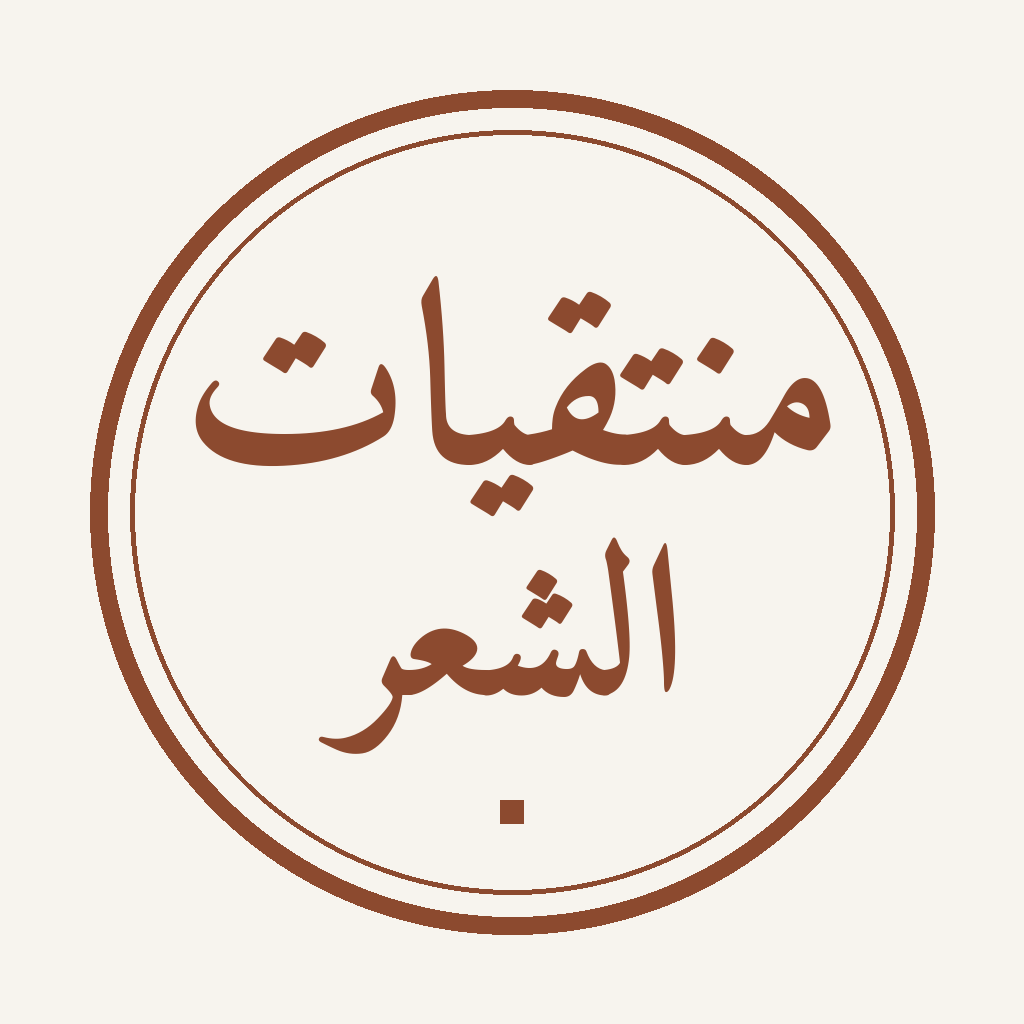
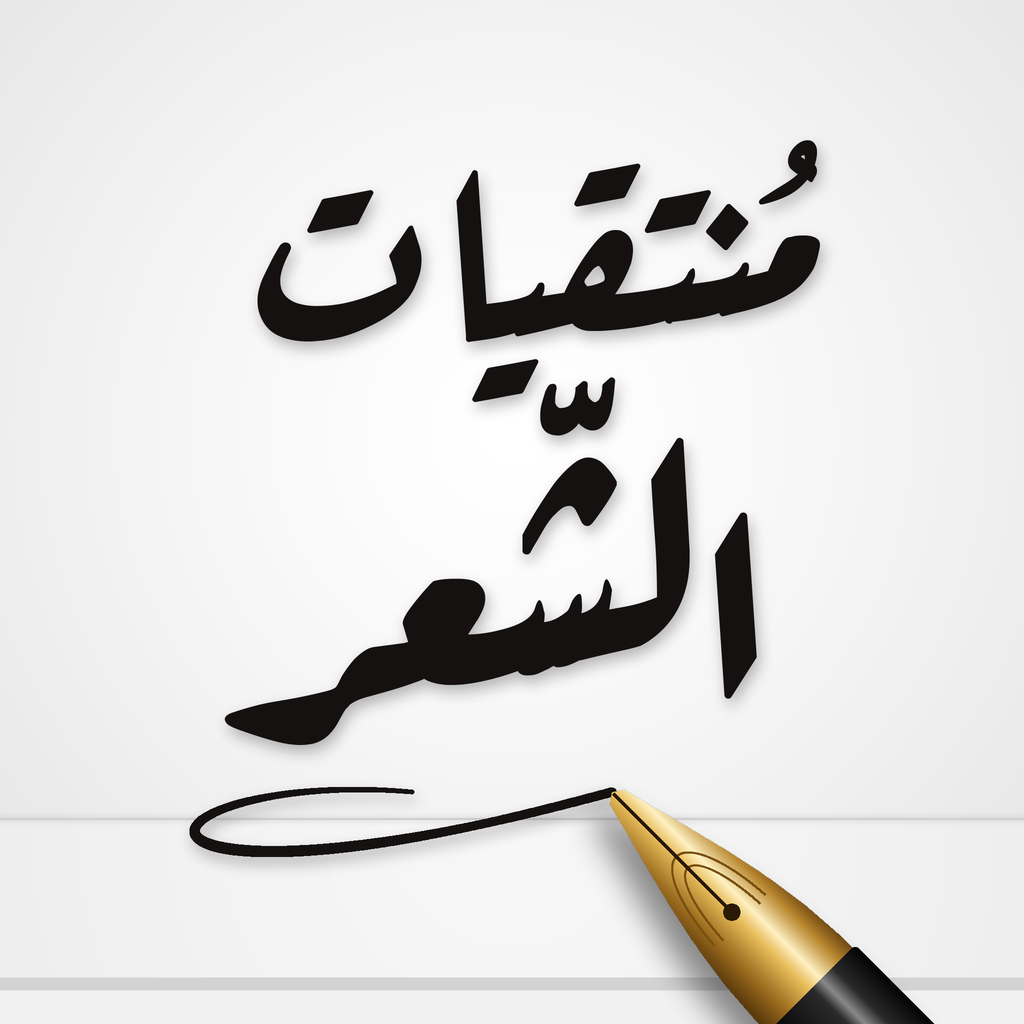
أيقونة جديدة: القلم الذهبي و«منتقيات الشعر» على خلفية بيضاء، وصورة الشعار في صور المشاركة

Changed region(s): [[0.0, 0.0625, 1.0, 1.0]]

diff --git a/lib/screens/poem.dart b/lib/screens/poem.dart
@@ -713,6 +713,7 @@ class _ShareCardScreenState extends State<ShareCardScreen> {
   Size _box = Size.zero;
   bool tashkeel = true;
   bool frame = true;
+  bool logo = true; // the pen picture «منتقيات الشعر» beside the poet's name
   bool busy = false;
   bool shared = false; // the move arrows disappear after sharing
 
@@ -820,6 +821,9 @@ class _ShareCardScreenState extends State<ShareCardScreen> {
                                             Text(widget.poem.poet,
                                                 style: TextStyle(fontFamily: fam, fontSize: 12, fontWeight: FontWeight.w700, color: s.mark)),
                                             const SizedBox(width: 10),
+                                            if (logo)
+                                              Image.asset('assets/images/share_logo.png', width: 54, height: 54, filterQuality: FilterQuality.high)
+                                            else
                                             Container(
                                               width: 34,
                                               height: 34,
@@ -906,6 +910,13 @@ class _ShareCardScreenState extends State<ShareCardScreen> {
           title: const Text('الإطار'),
           value: frame,
           onChanged: (v) => setState(() => frame = v),
+        ),
+        SwitchListTile(
+          contentPadding: EdgeInsets.zero,
+          title: const Text('صورة الشعار'),
+          subtitle: const Text('القلم و«منتقيات الشعر» بجانب اسم الشاعر، وإن أطفأتها ظهرت الدائرة الصغيرة'),
+          value: logo,
+          onChanged: (v) => setState(() => logo = v),
         ),
         const SizedBox(height: 10),
         FilledButton.icon(
